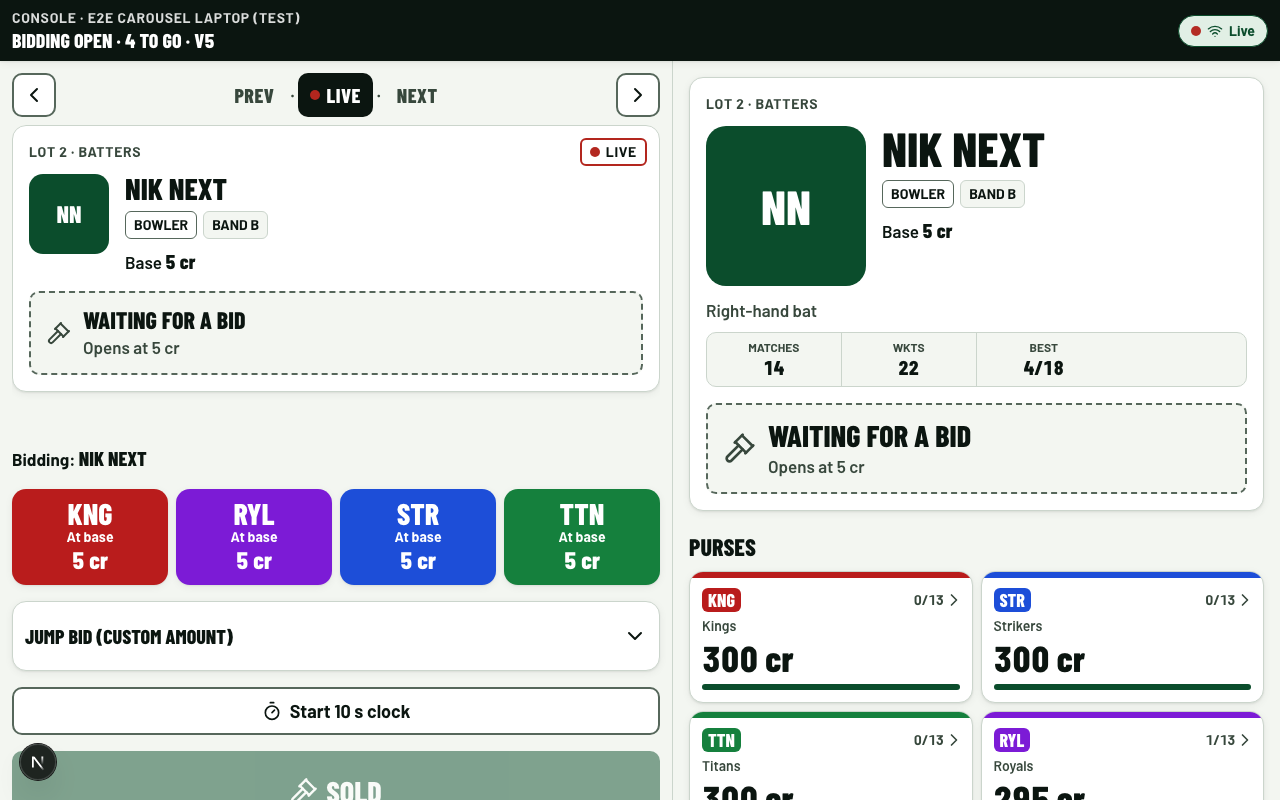
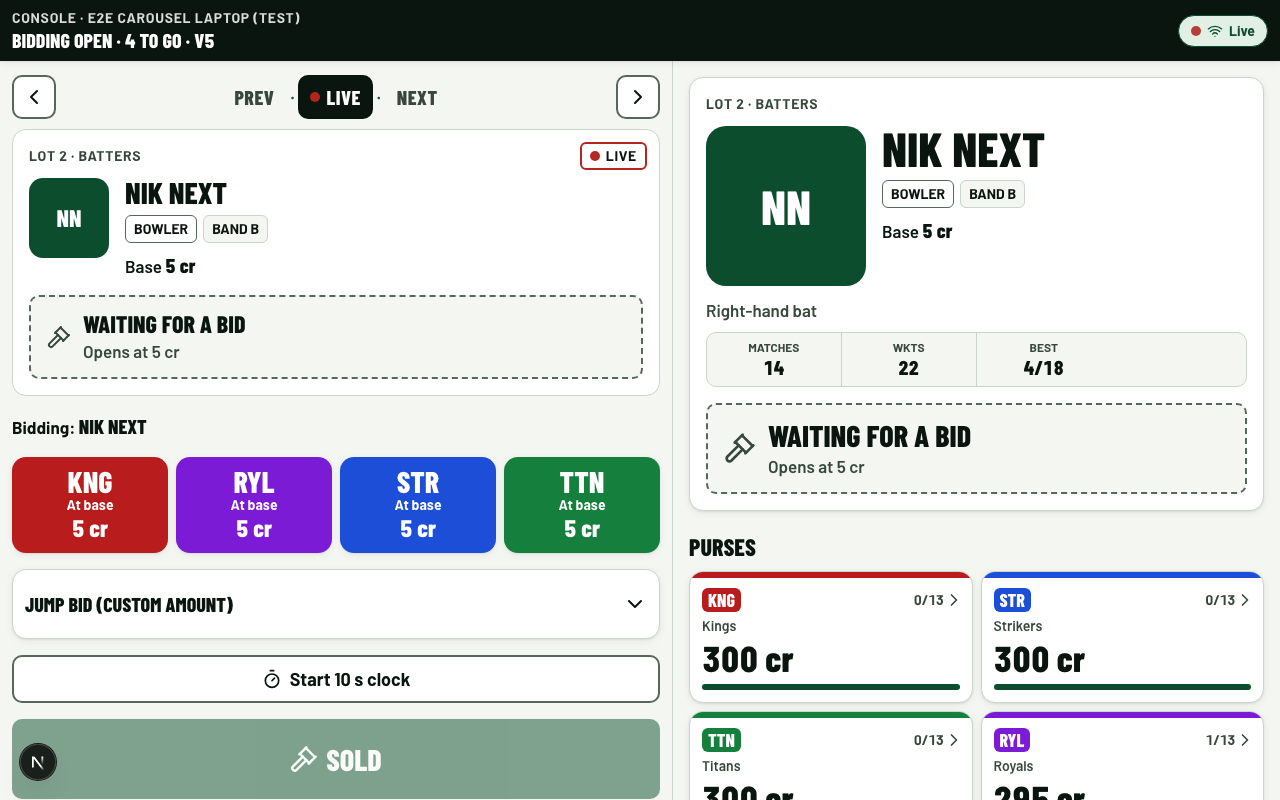
Carousel: inline Back to live, strip sized to the live card
Back to live now replaces the Prev · Live · Next labels in the carousel row
instead of floating over the bid buttons. The strip takes the live card's
height; taller cards scroll inside, so no big gap under short cards and the
bid buttons don't move while browsing (e2e checks both).

diff --git a/components/auction/LotCarousel.tsx b/components/auction/LotCarousel.tsx
@@ -1,7 +1,7 @@
 "use client";
 
 import { ChevronLeft, ChevronRight, Radio } from "lucide-react";
-import { useCallback, useEffect, useLayoutEffect, useRef, useState, type KeyboardEvent, type ReactNode } from "react";
+import { useCallback, useEffect, useLayoutEffect, useRef, useState, type KeyboardEvent, type ReactNode, type Ref } from "react";
 import { Badge, BandChip, RoleChip } from "@/components/ui/Badge";
 import { cx } from "@/components/ui/cx";
 import { PlayerPhoto } from "@/components/ui/PlayerPhoto";
@@ -20,8 +20,6 @@ type Props = {
   liveAccent?: string;
   prevCount?: number;
   nextCount?: number;
-  /** Extra classes for the fixed "Back to live" button, e.g. to centre it over one column. */
-  backClassName?: string;
 };
 
 const reducedMotion = () => typeof window !== "undefined" && window.matchMedia("(prefers-reduced-motion: reduce)").matches;
@@ -31,7 +29,7 @@ const reducedMotion = () => typeof window !== "undefined" && window.matchMedia("
  * keyboard to move. Snaps back to live when a new lot opens or a result lands, never on a bid.
  * Only for looking: it never feeds a lot id to a command.
  */
-export function LotCarousel({ snap, live, liveAccent, prevCount = 5, nextCount = 3, backClassName }: Props) {
+export function LotCarousel({ snap, live, liveAccent, prevCount = 5, nextCount = 3 }: Props) {
   const prev = previousResults(snap, prevCount);
   const next = nextLots(snap, nextCount);
   const liveIdx = prev.length;
@@ -55,7 +53,10 @@ export function LotCarousel({ snap, live, liveAccent, prevCount = 5, nextCount =
     const el = scroller.current;
     const slide = el?.children[Math.max(0, Math.min(i, el.children.length - 1))] as HTMLElement | undefined;
     if (!el || !slide) return;
-    el.scrollTo({ left: slide.offsetLeft, behavior: smooth && !reducedMotion() ? "smooth" : "auto" });
+    el.scrollTo({
+      left: slide.offsetLeft,
+      behavior: smooth && !reducedMotion() ? "smooth" : "auto",
+    });
   }, []);
 
   // Back to live on first paint and whenever the lot on the block or the latest result changes.
@@ -80,6 +81,18 @@ export function LotCarousel({ snap, live, liveAccent, prevCount = 5, nextCount =
     return () => ro.disconnect();
   }, [go]);
 
+  // The strip is as tall as the live card, not the tallest card, so there's no big gap under
+  // short cards. Browsing never changes the live card, so the bid buttons below never jump.
+  const liveSlide = useRef<HTMLDivElement>(null);
+  const [liveHeight, setLiveHeight] = useState<number | undefined>(undefined);
+  useLayoutEffect(() => {
+    const el = liveSlide.current;
+    if (!el || typeof ResizeObserver === "undefined") return;
+    const ro = new ResizeObserver(() => setLiveHeight(el.offsetHeight));
+    ro.observe(el);
+    return () => ro.disconnect();
+  }, []);
+
   const onKeyDown = (e: KeyboardEvent) => {
     if (e.key === "ArrowLeft" || e.key === "ArrowRight") {
       e.preventDefault();
@@ -88,39 +101,61 @@ export function LotCarousel({ snap, live, liveAccent, prevCount = 5, nextCount =
   };
 
   const onLive = idx === liveIdx;
-  const labels: Array<{ label: string; target: number; active: boolean; disabled: boolean }> = [
-    { label: "Prev", target: liveIdx - 1, active: idx < liveIdx, disabled: prev.length === 0 },
+  const labels: Array<{
+    label: string;
+    target: number;
+    active: boolean;
+    disabled: boolean;
+  }> = [
+    {
+      label: "Prev",
+      target: liveIdx - 1,
+      active: idx < liveIdx,
+      disabled: prev.length === 0,
+    },
     { label: "Live", target: liveIdx, active: onLive, disabled: false },
-    { label: "Next", target: liveIdx + 1, active: idx > liveIdx, disabled: false },
+    {
+      label: "Next",
+      target: liveIdx + 1,
+      active: idx > liveIdx,
+      disabled: false,
+    },
   ];
 
   return (
     <section aria-label="Lots" aria-roledescription="carousel" className="space-y-2">
-      <div className="flex items-center gap-2">
+      <div className="flex min-h-12 items-center gap-2">
         <button type="button" aria-label="Show earlier card" disabled={idx <= 0} onClick={() => go(idx - 1)} className="btn-outline size-11 min-h-11 shrink-0 px-0">
           <ChevronLeft aria-hidden className="size-6" />
         </button>
-        <div className="flex flex-1 items-center justify-center gap-1">
-          {labels.map((l, i) => (
-            <span key={l.label} className="contents">
-              {i > 0 && (
-                <span aria-hidden className="font-bold text-muted">
-                  ·
-                </span>
-              )}
-              <button
-                type="button"
-                disabled={l.disabled}
-                aria-current={l.active ? "true" : undefined}
-                onClick={() => go(l.target)}
-                className="inline-flex min-h-11 cursor-pointer items-center gap-1.5 rounded-md px-3 font-display text-xl font-extrabold tracking-wide text-muted uppercase focus-visible:outline-4 focus-visible:outline-offset-2 focus-visible:outline-gold disabled:cursor-not-allowed disabled:opacity-40 aria-[current]:bg-ink aria-[current]:text-white"
-              >
-                {l.label === "Live" && <span aria-hidden className="inline-block size-2.5 rounded-full bg-ball" />}
-                {l.label}
-              </button>
-            </span>
-          ))}
-        </div>
+        {/* Off the live card, the labels give way to Back to live. Same row, same height: nothing below moves. */}
+        {!onLive ? (
+          <button type="button" onClick={() => go(liveIdx)} className="btn min-h-12 flex-1 px-2 font-display text-2xl font-extrabold whitespace-nowrap uppercase">
+            <Radio aria-hidden className="size-6" /> Back to live
+          </button>
+        ) : (
+          <div className="flex flex-1 items-center justify-center gap-1">
+            {labels.map((l, i) => (
+              <span key={l.label} className="contents">
+                {i > 0 && (
+                  <span aria-hidden className="font-bold text-muted">
+                    ·
+                  </span>
+                )}
+                <button
+                  type="button"
+                  disabled={l.disabled}
+                  aria-current={l.active ? "true" : undefined}
+                  onClick={() => go(l.target)}
+                  className="inline-flex min-h-11 cursor-pointer items-center gap-1.5 rounded-md px-3 font-display text-xl font-extrabold tracking-wide text-muted uppercase focus-visible:outline-4 focus-visible:outline-offset-2 focus-visible:outline-gold disabled:cursor-not-allowed disabled:opacity-40 aria-[current]:bg-ink aria-[current]:text-white"
+                >
+                  {l.label === "Live" && <span aria-hidden className="inline-block size-2.5 rounded-full bg-ball" />}
+                  {l.label}
+                </button>
+              </span>
+            ))}
+          </div>
+        )}
         <button type="button" aria-label="Show later card" disabled={idx >= total - 1} onClick={() => go(idx + 1)} className="btn-outline size-11 min-h-11 shrink-0 px-0">
           <ChevronRight aria-hidden className="size-6" />
         </button>
@@ -133,14 +168,15 @@ export function LotCarousel({ snap, live, liveAccent, prevCount = 5, nextCount =
         aria-label="Swipe or use arrow keys to see the last and next lots"
         onKeyDown={onKeyDown}
         onScroll={() => setIdx(nearest())}
-        className="relative flex snap-x snap-mandatory gap-3 overflow-x-auto overscroll-x-contain rounded-lg [scrollbar-width:none] focus-visible:outline-4 focus-visible:outline-offset-2 focus-visible:outline-gold [&::-webkit-scrollbar]:hidden"
+        style={liveHeight ? { height: liveHeight } : undefined}
+        className="relative flex snap-x snap-mandatory gap-3 overflow-x-auto overflow-y-hidden overscroll-x-contain rounded-lg [scrollbar-width:none] focus-visible:outline-4 focus-visible:outline-offset-2 focus-visible:outline-gold [&::-webkit-scrollbar]:hidden"
       >
         {[...prev].reverse().map((r, i) => (
-          <Slide key={r.lot.id} label={`Previous: ${r.lot.playerName}`}>
+          <Slide key={r.lot.id} label={`Previous: ${r.lot.playerName}`} maxHeight={liveHeight}>
             <PrevCard snap={snap} result={r} ago={prev.length - i} />
           </Slide>
         ))}
-        <Slide label="Live" accent={live ? liveAccent : undefined}>
+        <Slide ref={liveSlide} label="Live" accent={live ? liveAccent : undefined}>
           {live ? (
             <>
               <span className="absolute top-3 right-3 inline-flex min-h-7 items-center gap-1.5 rounded-sm border-2 border-ball bg-paper px-2 text-sm leading-none font-extrabold tracking-wider text-ink uppercase">
@@ -153,35 +189,35 @@ export function LotCarousel({ snap, live, liveAccent, prevCount = 5, nextCount =
             <StateCard snap={snap} next={next[0]} />
           )}
         </Slide>
-        <Slide label="Next up">
+        <Slide label="Next up" maxHeight={liveHeight}>
           <NextList lots={next} />
         </Slide>
       </div>
-
-      {!onLive && (
-        <button
-          type="button"
-          onClick={() => go(liveIdx)}
-          className={cx(
-            "btn fixed bottom-4 left-1/2 z-40 min-h-14 -translate-x-1/2 px-6 font-display whitespace-nowrap text-2xl font-extrabold uppercase shadow-pop motion-safe:animate-rise",
-            backClassName,
-          )}
-        >
-          <Radio aria-hidden className="size-6" /> Back to live
-        </button>
-      )}
     </section>
   );
 }
 
-function Slide({ label, accent, children }: { label: string; accent?: string; children: ReactNode }) {
+type SlideProps = {
+  label: string;
+  accent?: string;
+  children: ReactNode;
+  ref?: Ref<HTMLDivElement>;
+  maxHeight?: number;
+};
+
+/** One card. Cards other than live get the live card's height as a cap and scroll inside if taller. */
+function Slide({ label, accent, children, ref, maxHeight }: SlideProps) {
   return (
     <div
+      ref={ref}
       role="group"
       aria-roledescription="slide"
       aria-label={label}
-      className={cx("card relative w-full shrink-0 self-start snap-center snap-always p-4", accent && "border-t-[6px]")}
-      style={accent ? { borderTopColor: accent } : undefined}
+      className={cx("card relative w-full shrink-0 self-start snap-center snap-always p-4", maxHeight !== undefined && "overflow-y-auto overscroll-y-contain", accent && "border-t-[6px]")}
+      style={{
+        ...(accent ? { borderTopColor: accent } : {}),
+        ...(maxHeight ? { maxHeight } : {}),
+      }}
     >
       {children}
     </div>
@@ -204,9 +240,13 @@ function PrevCard({ snap, result, ago }: { snap: Snapshot; result: LotResult; ag
             <Badge tone="pitch" className="min-h-8 text-base">
               Sold
             </Badge>
-            <span aria-hidden className="text-muted">·</span>
+            <span aria-hidden className="text-muted">
+              ·
+            </span>
             {team && <TeamChip team={team} teams={snap.teams} className="min-h-8 text-lg" />}
-            <span aria-hidden className="text-muted">·</span>
+            <span aria-hidden className="text-muted">
+              ·
+            </span>
             <span className="num">{fmt(result.price)}</span>
           </p>
         ) : (

diff --git a/e2e/carousel.spec.ts b/e2e/carousel.spec.ts
@@ -59,6 +59,9 @@ test.describe("lot carousel on the console (phone)", () => {
     await expect(slide(page, "Live")).toContainText("Nik Next");
     await expect(backToLive(page)).toBeHidden();
     await expect(page.getByText("Bidding: Nik Next")).toBeVisible();
+    const kings = page.getByRole("button", { name: /Kings bids/ });
+    const kingsTop = async () => (await kings.evaluate((el) => el.getBoundingClientRect().top + window.scrollY));
+    const kingsBefore = await kingsTop();
 
     // Arrow back to the previous lot: its result shows.
     await page.getByRole("button", { name: "Show earlier card" }).click();
@@ -66,8 +69,12 @@ test.describe("lot carousel on the console (phone)", () => {
     await expect(prev).toBeInViewport({ ratio: 0.9 });
     await expect(prev).toContainText("Sold");
     await expect(prev).toContainText("RYL");
-    await expect(page.getByRole("button", { name: "Prev", exact: true })).toHaveAttribute("aria-current", "true");
     await expect(backToLive(page)).toBeVisible();
+    // Back to live sits in the carousel row, well above the bid buttons, and the bid buttons didn't move.
+    const back = (await backToLive(page).boundingBox())!;
+    expect(back.height).toBeGreaterThanOrEqual(44);
+    expect(back.y + back.height).toBeLessThan((await kings.boundingBox())!.y);
+    expect(await kingsTop()).toBe(kingsBefore);
     await carousel(page).scrollIntoViewIfNeeded();
     await shot(page, "carousel-console-prev-375");
 
@@ -88,9 +95,12 @@ test.describe("lot carousel on the console (phone)", () => {
 
     // Keyboard: right arrow goes to the next lots, in running order.
     await carousel(page).getByRole("group", { name: /Swipe or use arrow keys/ }).focus();
+    // (The live card grew with the bid, as it always has; browsing to Next must not move anything.)
+    const kingsOnLive = await kingsTop();
     await page.keyboard.press("ArrowRight");
     const next = slide(page, "Next up");
-    await expect(next).toBeInViewport({ ratio: 0.9 });
+    await expect(next).toBeInViewport({ ratio: 0.5 });
+    expect(await kingsTop()).toBe(kingsOnLive);
     await expect(next.getByRole("listitem").first()).toContainText("Oli Third");
     await expect(next.getByRole("listitem")).toHaveCount(3);
     await expect(next.getByRole("listitem").nth(1)).toContainText("Pat Fourth");

diff --git a/components/auction/console/Console.tsx b/components/auction/console/Console.tsx
@@ -131,7 +131,6 @@ export function Console({ initial, boardHref, sponsors, sponsorBand }: Props) {
 
             <LotCarousel
               snap={snap}
-              backClassName="lg:left-[21rem]"
               live={
                 lot && (
                   <div className="space-y-4">

diff --git a/docs/design-system.md b/docs/design-system.md
@@ -98,8 +98,9 @@ sit on top of prices or compete with them.
 - **Owner view:** team bar, then purse left (biggest), max bid, slots left, per-player budget. Then the lot carousel.
 - **Lot carousel** (`LotCarousel`, console and owner view): Prev · Live · Next cards on a CSS scroll-snap strip.
   Up to 5 past results (SOLD · team · price, or UNSOLD), the live card with a red-dot LIVE tag (or a state card
-  between lots), and the next 3 lots. 44px arrows, arrow keys, swipe. A fixed green "Back to live" shows while off
-  the live card; it snaps back by itself when a new lot opens or a result lands, never on a bid. Looking only:
+  between lots), and the next 3 lots. 44px arrows, arrow keys, swipe. The strip is as tall as the live card; taller cards
+  scroll inside. Off the live card, a green "Back to live" replaces the labels in the same row (never a floating
+  overlay, so it can't cover bid buttons). It snaps back by itself when a new lot opens or a result lands, never on a bid. Looking only:
   console commands always use the lot on the block, and the console says "Bidding: <name>" above the bid buttons.
 - **Console:** sticky dark status bar. Bid buttons 2×2 in team colours (leader ringed). Big green SOLD,
   red-outline UNSOLD, SKIP, then Undo / Redo / Pause. Full-screen confirm before a sale.
